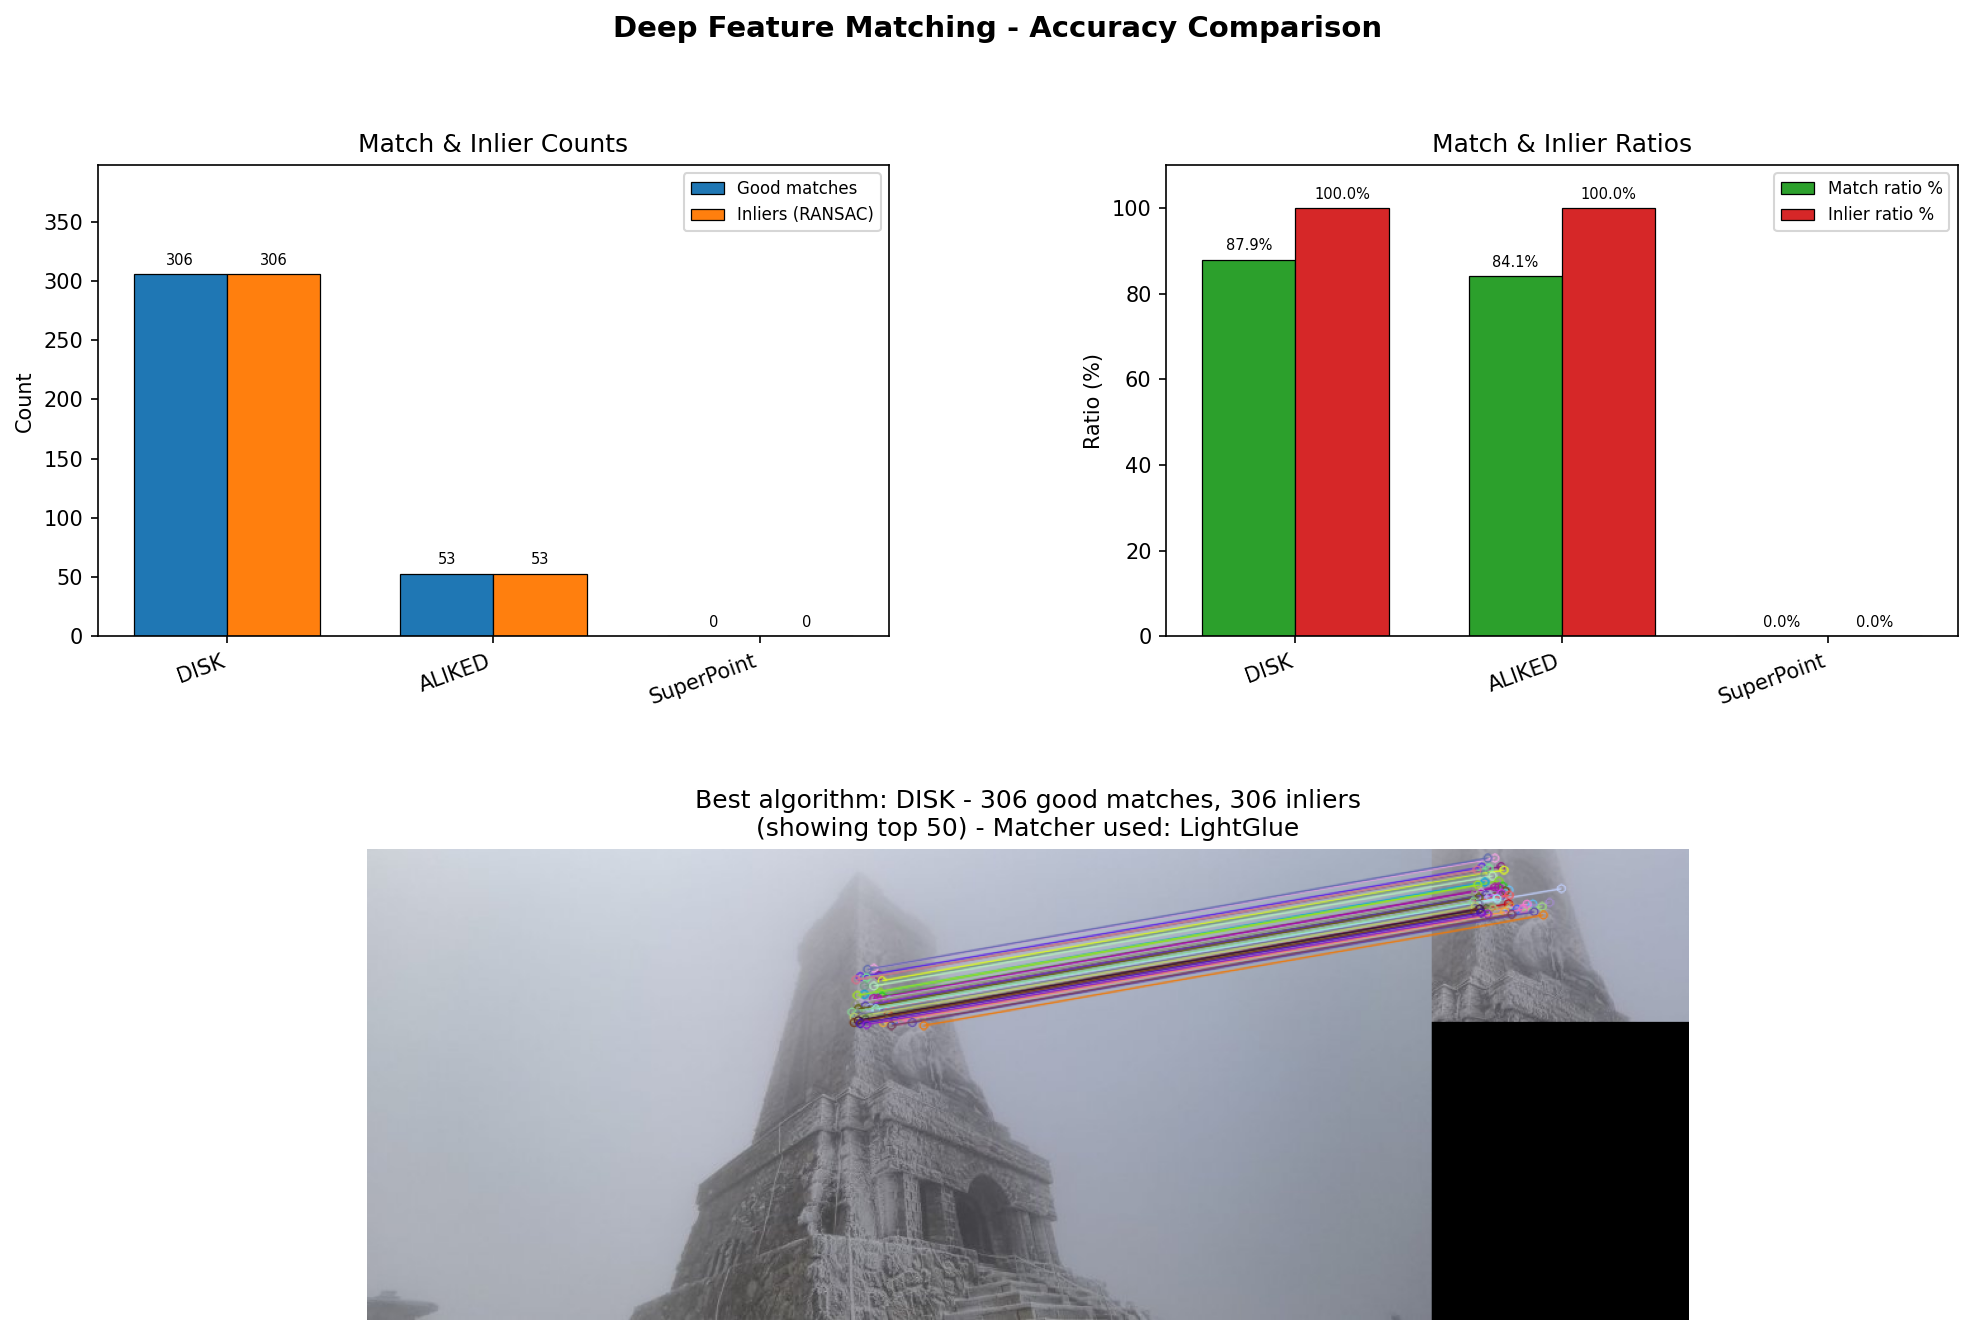
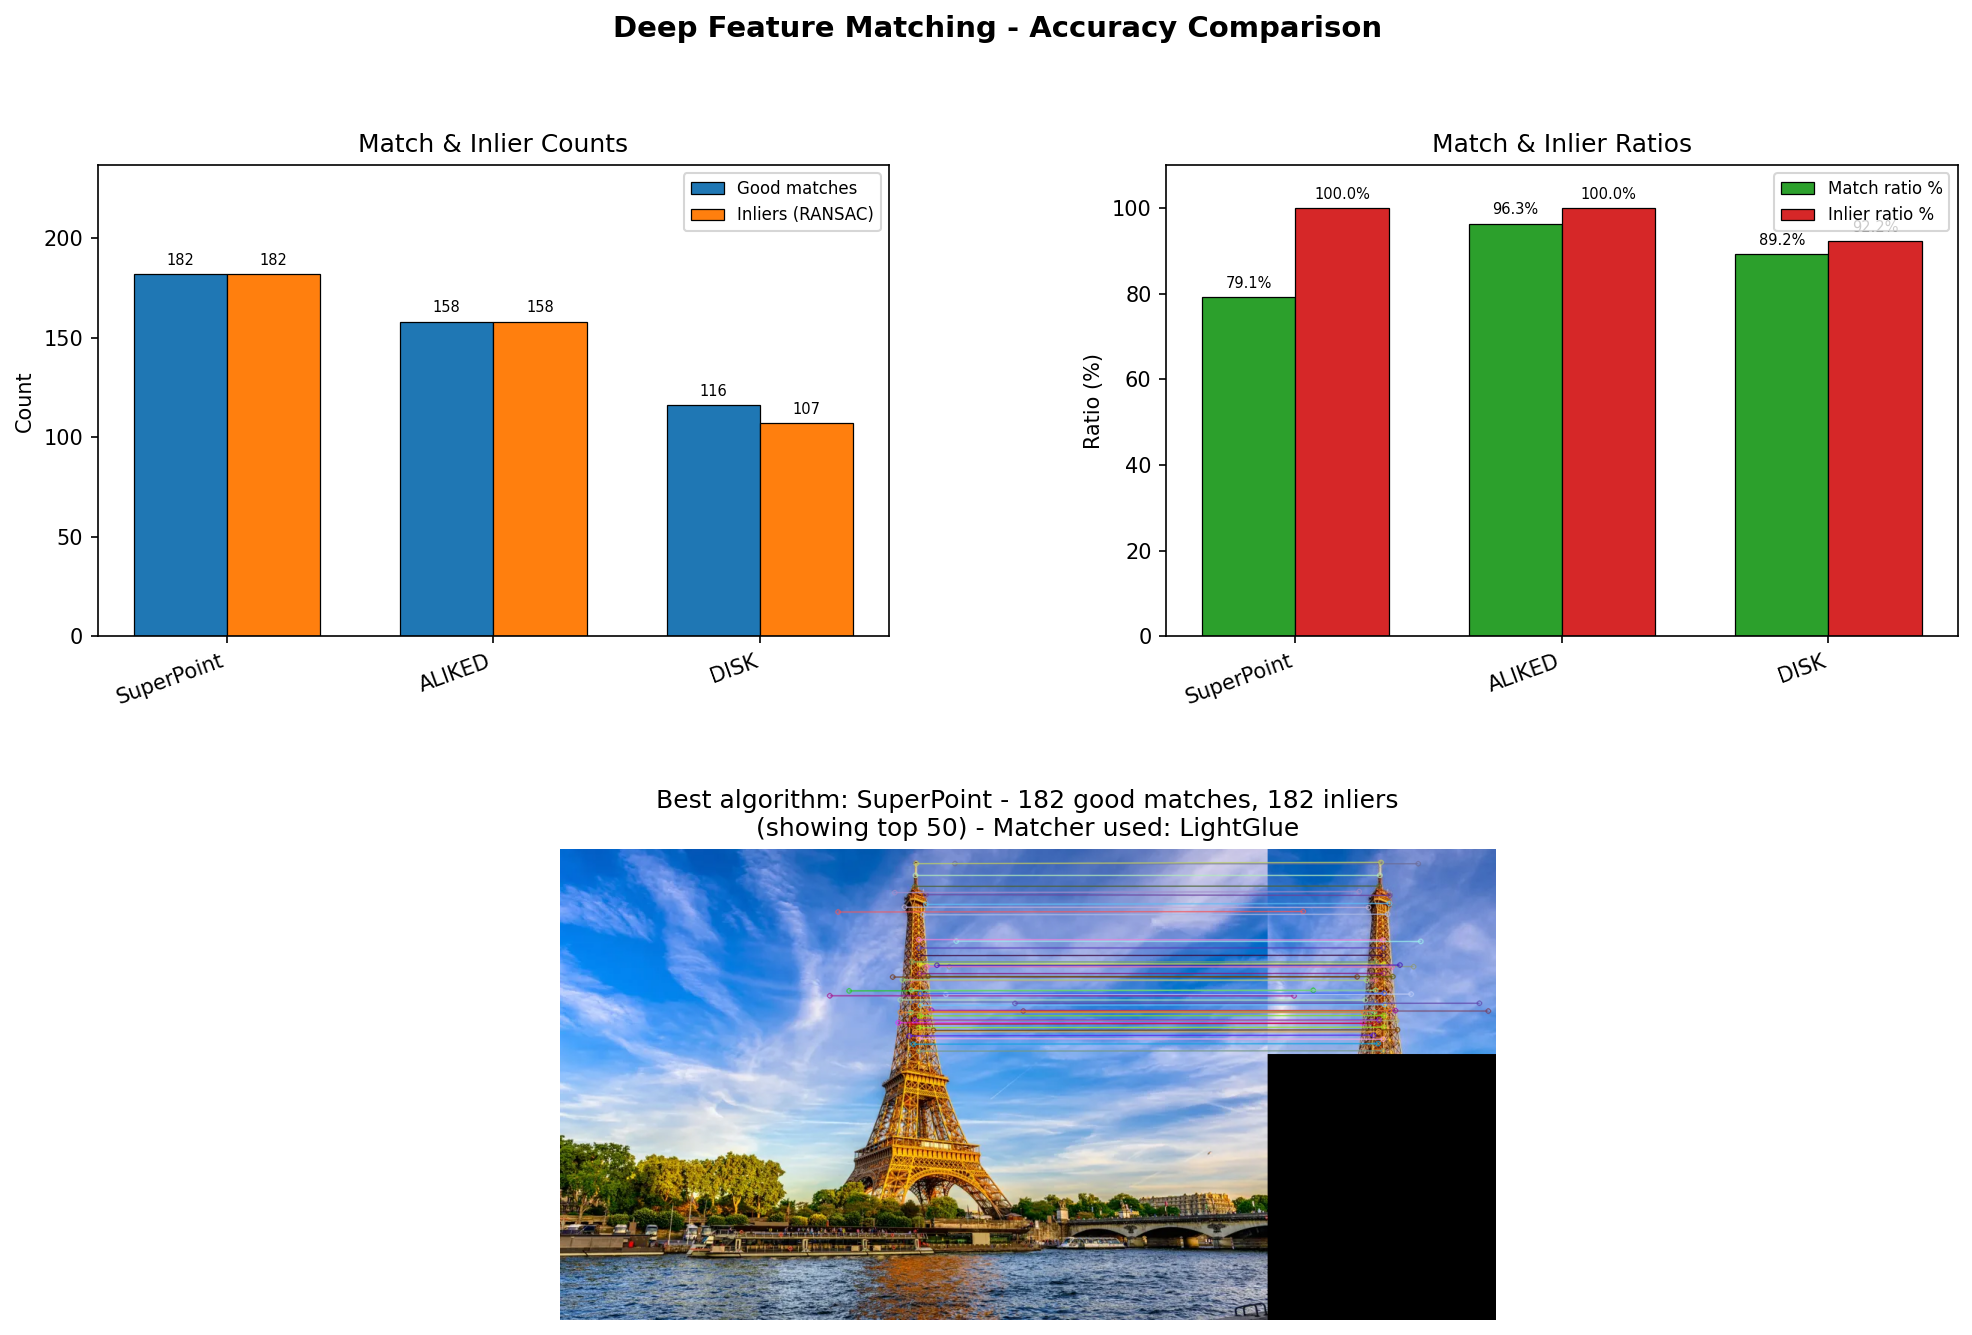
Updated the readme. Fixed example run command in deep-learning accuracy bechmarks files

diff --git a/benchmarks/accuracy_benchmark.py b/benchmarks/accuracy_benchmark.py
@@ -13,9 +13,9 @@ Metrics reported:
   - Inlier ratio (inliers / good matches)
 
 Usage:
-    python benchmarks/accuracy_benchmark.py --left images/image_left.jpg --right images/image_rigth.jpg --matcher bf_matcher
-    python benchmarks/accuracy_benchmark.py --left images/image_left.jpg --right images/image_rigth.jpg --matcher flann
-    python benchmarks/accuracy_benchmark.py --left images/image_left.jpg --right images/image_rigth.jpg --matcher bf_matcher --ratio 0.8 
+    python accuracy_benchmark.py --left "../images/image11.jpeg" --right "../images/image12.jpeg" --matcher bf_matcher
+    python accuracy_benchmark.py --left "../images/image11.jpeg" --right "../images/image12.jpeg" --matcher flann
+    python accuracy_benchmark.py --left "../images/image11.jpeg" --right "../images/image12.jpeg" --matcher bf_matcher --ratio 0.8 
 """
 
 import argparse

diff --git a/benchmarks/speed_benchmark.py b/benchmarks/speed_benchmark.py
@@ -5,8 +5,8 @@ Benchmarks the detection + description speed of multiple OpenCV
 feature extraction algorithms across one or more images.
 
 Usage:
-    python benchmarks/speed_benchmark.py --images images/image_left.jpg
-    python benchmarks/speed_benchmark.py --images images/image_left.jpg images/image_rigth.jpg
+    python speed_benchmark.py --images "../images/image3.jpg"
+    python speed_benchmark.py --images "../images/image3.jpg" "../images/image4.jpg"
 """
 
 import time

diff --git a/README.md b/README.md
@@ -36,6 +36,8 @@ To use the Deep-Learning based methods, you need to install a few extra things. 
    python -m pip install -e .
    ```
 
+LightGlue Github repository: https://github.com/cvg/lightglue
+
 Deep-Learning algorithms use PyTorch under the hood. When you run the commands above, PyTorch will be installed, but in my case it was a CPU-only version and when I ran the script I got an error. Yes, you can run the deep-learning methods on the CPU, but it will be slow. To fix the problem, I had to uninstall the installed version of PyTorch using:
 
 ```bash
@@ -119,3 +121,44 @@ Then run the script. Example command:
 python superpoint-and-lightglue.py "../videos/video2.mp4"
 ```
 
+## Benchmarks
+
+First you have to go to the benchmarks directory using 
+
+```bash
+cd benchmarks
+```
+
+**Tradional methods**
+Example for running the tradional methods
+
+***Accuracy benchmark***:
+
+```bash
+    python accuracy_benchmark.py --left "../images/image11.jpeg" --right "../images/image12.jpeg" --matcher bf_matcher
+    python accuracy_benchmark.py --left "../images/image11.jpeg" --right "../images/image12.jpeg" --matcher flann
+
+```
+
+***Speed benchmark***
+```bash
+python speed_bechmark.py --images "../images/image3.jpg"
+python speed_bechmark.py --images "../images/image3.jpg" "..images/image4.jpg"
+```
+
+**Deep Learning methods**
+Go to the directory
+
+```bash
+cd "deep-learning methods"
+```
+
+***Accuracy bechmark***
+```bash
+python deep_accuracy_bechmark.py --left "../../images/image7.jpg" --right "../../images/image8.jpg"
+```
+
+***Speed benchmark***
+```bash
+python deep_speed_bechmark.py --images "../../images/image7.jpg" "../../images/image8.jpg"
+```